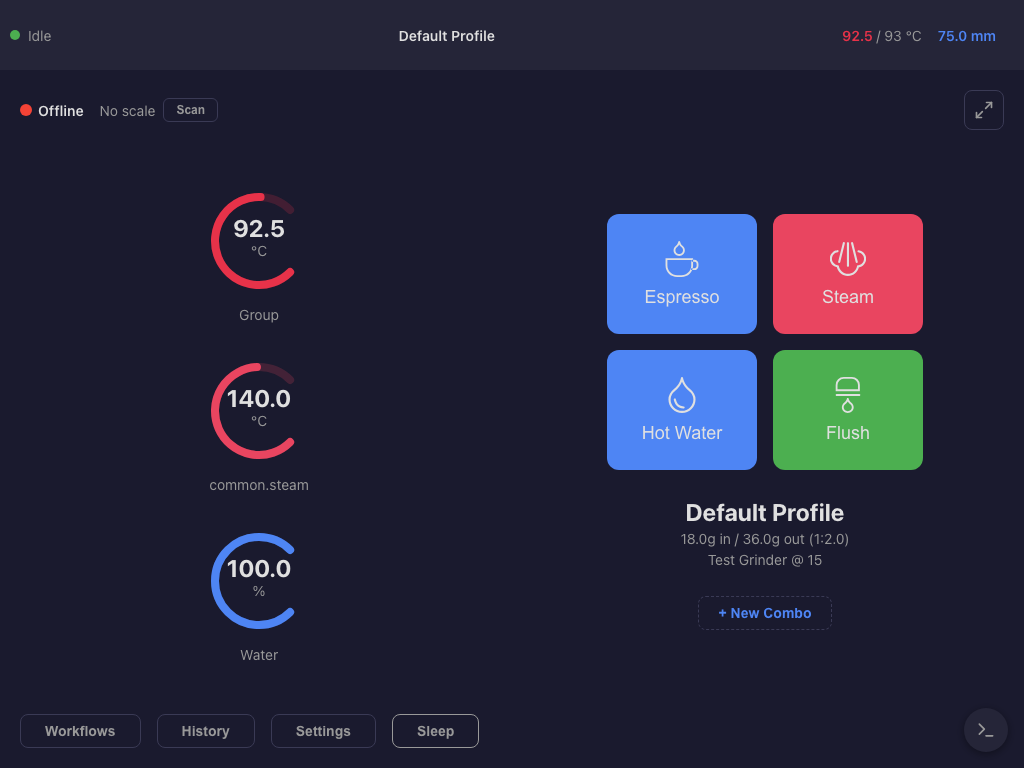
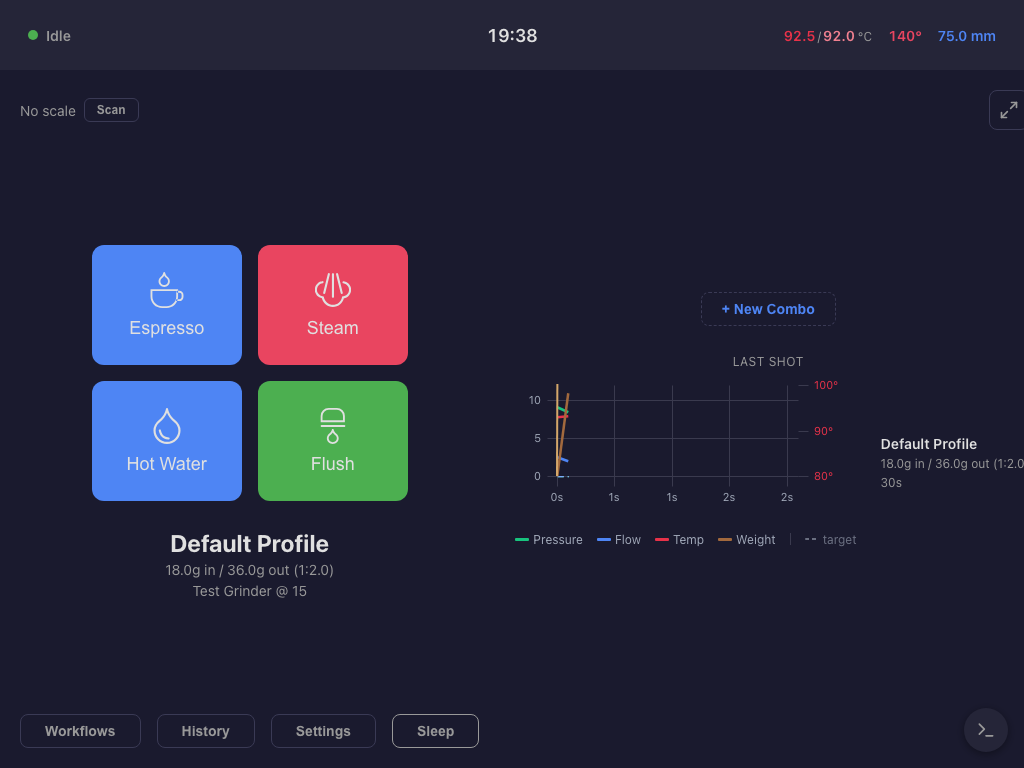
docs: update README with new screenshots for v0.4.0 features
Added screenshots: auto-favorites, shot detail, shot comparison,
phase summary expanded, simple profile editor. Updated existing
screenshots with new UI (redesigned status bar, removed gauges).

README: updated home screen description (status bar, combos, last shot),
profile editors (simple/profile/advanced), widget list, preferences.

diff --git a/tests/e2e/screenshots.spec.js b/tests/e2e/screenshots.spec.js
@@ -70,4 +70,53 @@ test.describe('Screenshots', () => {
     await page.waitForTimeout(1500)
     await page.screenshot({ path: `${SCREENSHOT_DIR}/profile-selector.png` })
   })
+
+  test('auto-favorites page', async ({ page }) => {
+    await loadApp(page)
+    await page.evaluate(() => window.__vueRouter.push('/auto-favorites'))
+    await page.waitForTimeout(3000)
+    await page.screenshot({ path: `${SCREENSHOT_DIR}/auto-favorites.png` })
+  })
+
+  test('shot detail page', async ({ page }) => {
+    await loadApp(page)
+    await page.waitForTimeout(500)
+    await page.evaluate(() => window.__vueRouter.push('/shot/shot-2026-02-13-100000'))
+    await page.waitForTimeout(3000)
+    await page.screenshot({ path: `${SCREENSHOT_DIR}/shot-detail.png` })
+  })
+
+  test('shot detail — phase summary expanded', async ({ page }) => {
+    await loadApp(page)
+    await page.waitForTimeout(500)
+    await page.evaluate(() => window.__vueRouter.push('/shot/shot-2026-02-13-100000'))
+    await page.waitForTimeout(3000)
+    const header = page.locator('.phase-summary__header')
+    if (await header.isVisible()) {
+      await header.click()
+      await page.waitForTimeout(300)
+    }
+    await page.screenshot({ path: `${SCREENSHOT_DIR}/shot-detail-phase-summary.png` })
+  })
+
+  test('simple profile editor', async ({ page }) => {
+    await loadApp(page)
+    await page.waitForTimeout(500)
+    await page.evaluate(() => window.__vueRouter.push('/simple-editor?type=pressure'))
+    await page.waitForTimeout(2000)
+    await page.screenshot({ path: `${SCREENSHOT_DIR}/simple-editor.png` })
+  })
+
+  test('shot comparison page', async ({ page }) => {
+    await loadApp(page)
+    await page.waitForTimeout(500)
+    await page.evaluate(() => {
+      window.__vueRouter.push({
+        path: '/shot-comparison',
+        query: { ids: 'shot-2026-02-13-100000,shot-2026-02-13-090000' }
+      })
+    })
+    await page.waitForTimeout(3000)
+    await page.screenshot({ path: `${SCREENSHOT_DIR}/shot-comparison.png` })
+  })
 })

diff --git a/README.md b/README.md
@@ -10,11 +10,11 @@ A modern web interface for the [DE1 espresso machine](https://decentespresso.com
 
 The home screen shows real-time machine data and quick-access operation buttons.
 
-- **Circular gauges** for group head temperature, steam temperature, and water level
+- **Status bar** with connection status, clock, mix/group/steam temperatures, and water level
 - **Operation buttons** (Espresso, Steam, Hot Water, Flush) with two-step confirmation to prevent accidental starts
 - **Shot plan** showing the active profile, dose, yield, ratio, and grinder setting
-- **Workflow presets** for one-tap switching between saved brewing configurations
-- **Status bar** with machine state, active profile, temperature, and water level
+- **Workflow combos** for one-tap switching between saved brewing configurations (profile + coffee + grinder + steam/hot water settings)
+- **Last shot** widget with mini graph and metrics
 
 ### Workflow Editor
 
@@ -23,9 +23,9 @@ Create and manage complete brewing workflows — profile, beans, grinder, dose, 
 ![Workflow Editor](docs/screenshots/bean-info.png)
 
 - Set profile, coffee, grinder, dose in/out, and ratio
-- Configure steam, flush, and hot water settings per workflow
-- Save as named presets for quick access from the home screen
-- Tap a preset to load all settings; double-tap to start espresso
+- Configure steam, flush, and hot water settings per workflow combo
+- Save as named combos for quick access from the home screen
+- Tap a combo to load all settings; double-tap to start espresso
 
 ### Profile Management
 
@@ -39,9 +39,12 @@ Browse, search, and manage espresso profiles.
 - Visual profile graph showing pressure, flow, and temperature curves
 - View step-by-step breakdown of each profile frame
 - Apply profiles to the current workflow with a single tap
-- **Simple Profile Editor** for classic 4-step pressure/flow profiles (Temperature, Preinfuse, Hold/Rise, Decline, Stop at Weight) -- perfect for beginners
-- Advanced frame-by-frame editor for power users
-- ProfileInfoPage automatically routes to the correct editor based on profile type
+- **Simple Profile Editor** for classic 4-step pressure/flow profiles -- perfect for beginners
+- **Profile Editor** with named phases (fill, bloom, rise, pour, hold, decline) for intermediate users
+- **Advanced Editor** with full frame-by-frame control for power users
+- Edit button automatically routes to the correct editor based on profile type
+
+![Simple Profile Editor](docs/screenshots/simple-editor.png)
 
 ### Shot History
 
@@ -56,6 +59,10 @@ Review past shots with detailed metrics.
 - Compare up to 3 shots side-by-side with overlaid graphs
 - Import shots from Visualizer
 
+![Shot Detail](docs/screenshots/shot-detail.png)
+
+![Shot Comparison](docs/screenshots/shot-comparison.png)
+
 ### Layout Customization
 
 Rearrange the home screen to show what matters to you.
@@ -67,14 +74,14 @@ Rearrange the home screen to show what matters to you.
 - Six configurable zones (top, center, bottom -- left and right)
 - Drag to reorder, add, or remove widgets from each zone
 - Changes apply in real time -- edit directly on the live home screen
-- Available widgets: gauges, action buttons, shot plan, workflow presets, clock, water level, navigation, connection status, scale info, fullscreen toggle
+- Available widgets: action buttons, shot plan, workflow combos, last shot, navigation, scale info, fullscreen toggle
 
 ### Settings
 
 ![Settings](docs/screenshots/settings-page.png)
 
 - **Device**: Scan and connect to DE1 machines and scales
-- **Preferences**: Water level units (mm/ml), brew dialog, post-shot review
+- **Preferences**: Water level units (mm/ml), post-shot linger, accessibility
 - **Layout**: Launch the visual layout editor or reset to defaults
 - **Visualizer**: Import shots from Decent Visualizer
 - **History**: Shot history management
@@ -94,9 +101,12 @@ Rearrange the home screen to show what matters to you.
 
 - **Post-shot review** with shot graph, notes, rating, TDS/EY
 - **Phase Summary Panel** -- collapsible per-phase metrics table showing duration, avg pressure, avg flow, and weight gained per extraction phase
-- Shot annotations support (new structured format alongside legacy fields)
+
+![Phase Summary](docs/screenshots/shot-detail-phase-summary.png)
 
 ### Auto-Favorites
+
+![Auto-Favorites](docs/screenshots/auto-favorites.png)
 
 Analyzes your shot history to surface your best-performing bean, profile, and grinder combinations.
 
